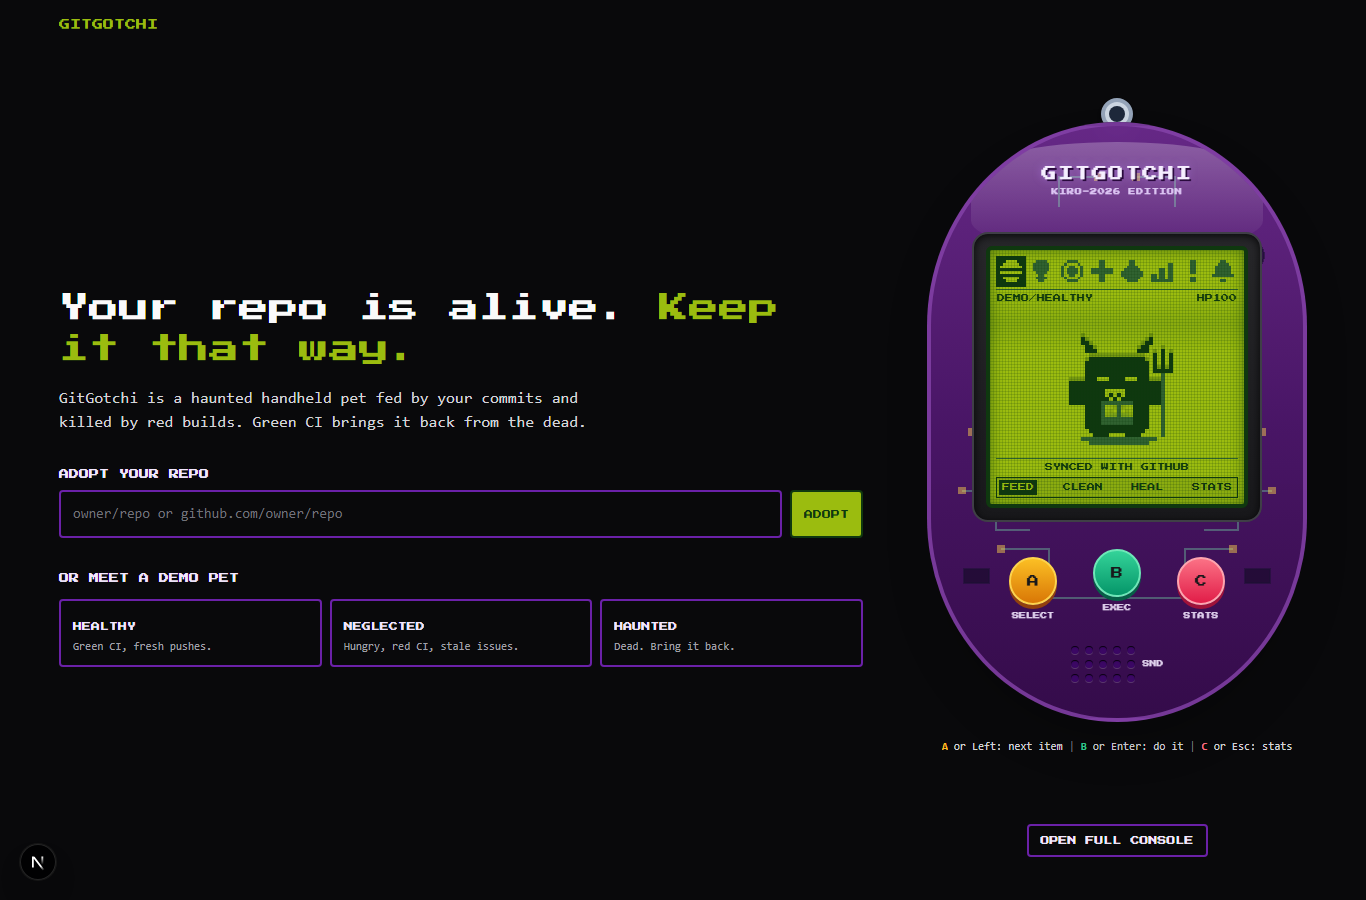
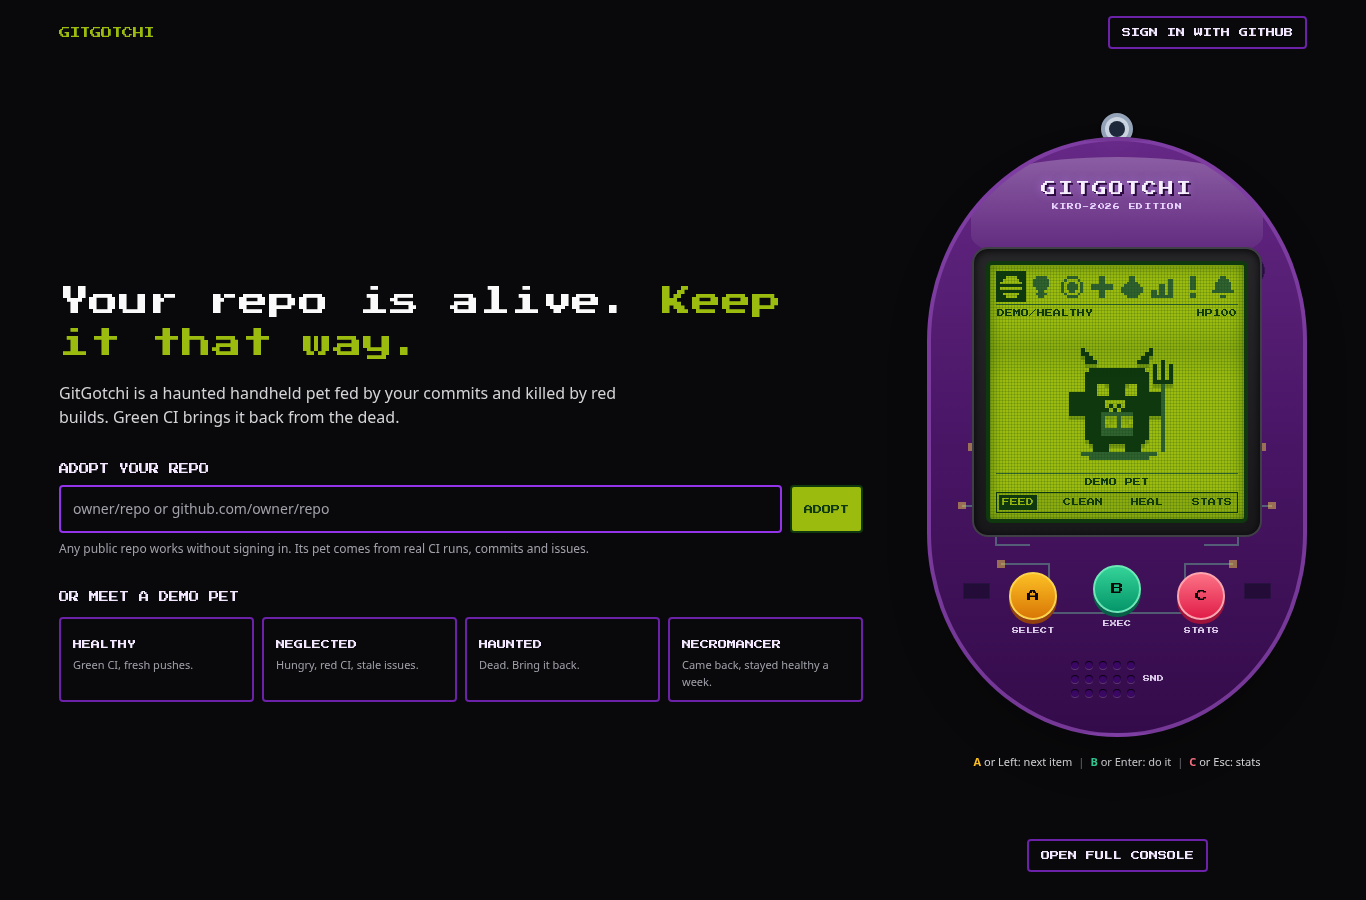
docs: README cross-check, How it differs, Security, current architecture, fresh screenshots from production

diff --git a/README.md b/README.md
@@ -13,7 +13,7 @@ GitGotchi is a 90s-style virtual pet whose health is the health of a GitHub repo
 
 The project was built with Kiro. The `.kiro/` folder at the repository root holds the specs, hooks, steering files and MCP settings. See [How Kiro was used](#how-kiro-was-used) and [docs/KIRO_USAGE.md](docs/KIRO_USAGE.md).
 
-![The GitGotchi handheld on the home page, showing the demo/healthy pet as a Code Demon](docs/media/hero.png)
+![The GitGotchi home page: the handheld shows the demo/healthy pet as a Code Demon, next to the adopt form and the four demo pets](docs/media/hero.png)
 
 ## The problem
 
@@ -22,6 +22,19 @@ Failing CI runs and stale issues usually arrive as notifications, and people lea
 **Who it is for:** maintainers of side projects and small teams who want one glance (or one README badge) to say whether a repo is alive, and open-source visitors who want to know if a project is still cared for before they depend on it.
 
 GitGotchi shows that state as a pet. A sick or dead pet on the project page, or in the README badge, is harder to ignore than another email. The REVIVE button does not help either: the server answers `FIX CI FIRST` until the latest CI run is green.
+
+## How it differs
+
+Pets fed by commits are not new: [cli-pet](https://dev.to/depapp/i-built-a-tamagotchi-that-judges-your-github-activity-and-its-brutally-honest-oh1) lives in the terminal and eats your GitHub activity, [Repogotchi](https://github.com/peclarke/repogotchi) (a 2022 hackathon project) keeps a pet alive with commits, and [code-tamagotchi](https://github.com/davidfrid02/code-tamagotchi) and [terminal-pet](https://github.com/apoorvgarg31/terminal-pet) feed a pet from your editor or shell. GitGotchi differs in four ways:
+
+| | Commit pets above | GitGotchi |
+|---|---|---|
+| Whose pet | One per developer | One per **repository**, shared by everyone with push access; visitors can only look |
+| Who sees it | The developer, in a terminal or editor | **Everyone who opens the repo**, through a live README badge (animated, works through GitHub's image proxy) |
+| Coming back from the dead | A commit revives it | A **ritual tied to a real fix**: REVIVE is refused while CI is red, a revived pet rises as a ghost for a day, each comeback leaves a scar, and a week of health after it earns the rare `NECROMANCER` |
+| What happens when it is sick | Nothing beyond the pet | **Kiro closes the loop**: a Kiro hook reports code smells as poop, Summon Kiro hands Kiro the failing CI log and stale issues, Kiro fixes the code, CI turns green and the pet climbs out of the grave |
+
+It also works for private repos, through a read-only GitHub App with encrypted storage.
 
 ## What it does
 
@@ -34,9 +47,9 @@ GitGotchi shows that state as a pet. A sick or dead pet on the project page, or 
 - **Labelled demo data.** Demo pets carry a `DEMO PET` tag, and every simulated event is tagged `simulated`. Each browser keeps its own demo pets, so nobody sees what others clicked. The app never opens pull requests and never claims a fix it did not make.
 - **Privacy.** Only stats, counts and event labels are stored, never code, commit messages, emails or issue titles. Private pets are encrypted before they reach the store. Details on [`/privacy`](https://gitgochi.lumelo.my.id/privacy).
 
-| Dead pet on `/pet/demo/haunted` | Summon Kiro diagnosis | Badge SVGs from `/api/badge` |
+| Dead pet on `/pet/demo/haunted` | Summon Kiro diagnosis | Live README badges from `/api/badge` |
 |---|---|---|
-| ![The demo/haunted pet as a zombie on its tombstone, with stats, event log and simulator](docs/media/zombie.png) | ![The Summon Kiro modal listing a failing CI finding, a hunger finding and the Kiro prompt](docs/media/summon-kiro.png) | ![Badges for demo/healthy (Code Demon, happy) and demo/haunted (tombstone)](docs/media/badge.png) |
+| ![The demo/haunted pet as a zombie on its tombstone, with stats, event log and simulator](docs/media/zombie.png) | ![The Summon Kiro modal listing a failing CI finding, a hunger finding and the Kiro prompt](docs/media/summon-kiro.png) | ![Badges for demo/healthy (Code Demon), demo/necromancer (the rare stage, with two resurrection scars) and demo/haunted (tombstone)](docs/media/badge.png) |
 
 ## Quick start
 
@@ -127,7 +140,7 @@ Copy [`.env.example`](.env.example) to `.env.local`. All variables are optional 
 
 ## Sign in, keepers and live updates
 
-1. Click **SIGN IN WITH GITHUB**. GitGotchi asks GitHub who you are; it gets no write access to anything.
+1. Click **SIGN IN WITH GITHUB**. GitGotchi asks GitHub who you are; it gets no write access to anything. Sign in passes briefly through `gitgochi.vercel.app`, which receives GitHub's answer and hands you back to `gitgochi.lumelo.my.id` with a one-time ticket.
 2. Open a repo's pet. If you have push, maintain or admin access, you are a **keeper**: FEED, CLEAN, REVIVE, SYNC NOW and KEEPER TOOLS work for you. Everyone else can look.
 3. For live updates, and for any private repo, an admin of the repo clicks **INSTALL GITGOTCHI** (KEEPER TOOLS or **MY PETS**) and picks the repos. The app has read-only access to metadata, contents, actions, checks, issues and pull requests, and receives pushes, CI runs, pull requests and issues for those repos.
 4. **MY PETS** (`/me`) lists every installed repo you can access, labelled KEEPER or READER and PUBLIC or PRIVATE.
@@ -171,7 +184,7 @@ The `.kiro/` folder is at the repository root and is committed. The full write-u
 | Kiro feature | Where | What it does |
 |---|---|---|
 | Specs | `.kiro/specs/{pet-engine,github-sync,kiro-healer,haunted-ui,accounts}/` | One `requirements.md` (EARS), `design.md` and `tasks.md` per feature. Every change after the first build was written into a spec before the code (for example accounts R1 to R9, the rising ghost R6.6 to R6.9, the NECROMANCER R4.4). `.kiro/specs/gitgotchi-prd.md` is the product document, and `.kiro/specs/kiroween-submission/` plans the remaining submission work |
-| Hooks | `.kiro/hooks/poop-detector.json` | On save of a `.ts` or `.tsx` file under `src/`, runs `scripts/poop-detector.mjs`. The script scans for `console.log`, `debugger`, `TODO:` and `FIXME` and reports to `/api/local-poop`. A smell makes the pet poop. Saving the same file clean runs CLEAN on the pet. If the app is down, the script prints one line and exits 0 |
+| Hooks | `.kiro/hooks/poop-detector.json` | On save of a `.ts` or `.tsx` file under `src/`, runs `scripts/poop-detector.mjs`. The script scans for `console.log`, `debugger`, `TODO:` and `FIXME` and reports to `/api/local-poop`. A smell makes the pet poop. Saving the same file clean removes that file's poop only. If the app is down, the script prints one line and exits 0 |
 | | `.kiro/hooks/spec-sync.json` | On save of `src/lib/state-machine.ts`, asks the agent to check the change against `.kiro/specs/pet-engine/` and run `npm test` |
 | Steering | `.kiro/steering/` | `retro-aesthetic.md` (palette, pixel font, shell), `architecture.md` (stack and project layout), `kiro-integration.md` (how the pieces connect, and the rule to report only real results), `summon-healer.md` (manual, run as `/summon-healer`) |
 | MCP server | `mcp-server/index.mjs`, `.kiro/settings/mcp.json` | stdio server `gitgotchi` with `get_pet_status`, `diagnose_pet`, `feed_pet`, `clean_pet`, `simulate_event` (demo repos only), `adopt_pet` and `add_badge` (writes the badge into the workspace README; you commit). The other tools call the running app over HTTP. Only the two read-only tools are auto-approved |
@@ -181,49 +194,56 @@ The `.kiro/` folder is at the repository root and is committed. The full write-u
 
 **Summon Kiro** runs from HEAL on the handheld, from `diagnose_pet` over MCP, or from `/summon-healer` in Kiro chat. It reports the latest completed CI run if that run failed (with its link, the failed jobs and steps, and an excerpt of the failing log), up to 3 stale issues, up to 5 code smells reported by the hook, and the days since the last push when there has been no push for 2 days or more. It returns those findings and a prompt. The prompt marks log lines, issue titles and file names as untrusted repository data, so text planted in a CI log cannot steer Kiro. Kiro then fixes the code in your workspace and runs `npm test`. GitGotchi does not open pull requests and does not edit files.
 
-To use the hook and the MCP server, open this folder in Kiro and run `npm run dev`. Open the app once in the browser before editing. The hook script waits at most 3 seconds for the app, so a call against a cold dev server can time out.
+To use the hook and the MCP server, open this folder in Kiro and run `npm run dev`. Open the app once in the browser before editing. Against the deployed app, both need a per-pet hook token from KEEPER TOOLS in `GITGOTCHI_HOOK_TOKEN`. The hook script waits at most 3 seconds for the app, so a call against a cold dev server can time out.
 
 ## Architecture
 
 ```mermaid
-flowchart LR
-  GH["GitHub"]
-  WH["/api/webhook/github"]
-  SVC["pet-service"]
-  ENG["state-machine: pure engine"]
-  STORE["pet-store: Upstash Redis (private pets sealed)"]
-  APPWH["/api/github-app/webhook"]
-  AUTH["/api/auth: GitHub App sign in"]
-  DEMO["demo pets: browser localStorage"]
-  API["/api/pet/owner/repo"]
-  UI["Next.js pages + handheld UI"]
-  BADGE["/api/badge/owner/repo.svg"]
-  KIRO["Kiro IDE"]
-  LP["/api/local-poop"]
-  MCP["mcp-server"]
-  HEAL["/api/auto-heal diagnosis"]
+flowchart TB
+  subgraph Clients
+    UI["Browser: pages + handheld"]
+    DEMO["Demo pets in localStorage"]
+    KIRO["Kiro: poop hook + MCP server"]
+  end
+  subgraph Vercel["Next.js on Vercel"]
+    AUTH["Sign in: gitgochi.vercel.app/api/auth, then a one-time ticket to /api/auth/handoff"]
+    ROUTES["/api/pet, /api/badge, /api/auto-heal, /api/local-poop"]
+    WH["/api/github-app/webhook (signed)"]
+    ACCESS["access: keeper / reader / visitor"]
+    SVC["pet-service"]
+    ENG["state-machine + pet-logic (pure, also run in the browser)"]
+    STORE["pet-store: 30 s read cache, private pets sealed"]
+  end
+  subgraph GitHub
+    OAUTH["OAuth"]
+    REST["REST API"]
+    HOOKS["App webhooks"]
+  end
+  KV[("Upstash Redis: pets, sessions, tickets")]
 
-  GH -->|REST snapshot| SVC
-  GH -->|signed webhook| WH
-  GH -->|GitGotchi App webhook| APPWH
-  WH --> SVC
-  APPWH --> SVC
-  AUTH -->|keeper / reader / visitor| API
-  DEMO --> UI
-  SVC <--> ENG
-  SVC <--> STORE
-  SVC --> API
-  API --> UI
-  API --> BADGE
-  KIRO -->|PostFileSave hook| LP
-  LP --> SVC
-  KIRO <-->|MCP stdio| MCP
-  MCP -->|HTTP| API
-  MCP -->|HTTP| HEAL
-  UI -->|HEAL button| HEAL
+  UI --> AUTH
+  AUTH <--> OAUTH
+  UI --> ROUTES
+  KIRO -->|hook token| ROUTES
+  DEMO --> ENG
+  ROUTES --> ACCESS --> SVC
+  HOOKS --> WH --> SVC
+  SVC --> ENG
+  SVC -->|snapshots, diagnosis| REST
+  SVC --> STORE --> KV
+  AUTH -->|sessions, tickets| KV
 ```
 
-Stack: Next.js 16 (App Router), React 19, TypeScript, Tailwind CSS, `@modelcontextprotocol/sdk`, Vitest and fast-check. The engine in `src/lib/state-machine.ts` is pure functions. `src/lib/pet-service.ts` handles GitHub snapshots, demo fixtures and user actions. More detail is in `.kiro/steering/architecture.md`.
+Stack: Next.js 16 (App Router), React 19, TypeScript, Tailwind CSS, `@modelcontextprotocol/sdk`, Vitest, fast-check and Playwright. The engine (`src/lib/state-machine.ts`) and the action rules (`src/lib/pet-logic.ts`) are pure functions shared by the server and the browser, so demo pets in `localStorage` follow exactly the same rules. `src/lib/pet-service.ts` reads GitHub snapshots and applies webhooks and actions; `src/lib/access.ts` decides who is a keeper, reader or visitor; `src/lib/pet-store.ts` seals private pets before they reach Upstash. More detail is in `.kiro/steering/architecture.md` and `.kiro/specs/accounts/design.md`.
+
+## Security
+
+- **Least privilege.** The GitGotchi App has read-only permissions and only on the repos it is installed on. It never writes to a repo.
+- **Accounts.** Sessions and GitHub tokens are encrypted (AES-256-GCM) in Upstash; only a hash of the session id is stored; the cookie is `HttpOnly`, `Secure`, `SameSite=Lax`. Sign out revokes the GitHub token at GitHub.
+- **Private repos.** Outsiders get the same answer as for a repo that does not exist, on every route including the badge. Private pets are encrypted before they are stored, and private answers are `no-store` and `noindex`.
+- **Requests.** Writes need our own `Origin`; webhooks need a valid GitHub signature; hook calls need a per-pet token. Per-IP rate limits protect the free quotas.
+- **Browser.** A strict Content Security Policy, no framing (`frame-ancestors 'none'`), `nosniff`, a strict referrer policy and HSTS.
+- **Checked.** No secrets in the git history, `npm audit` reports 0 vulnerabilities, and the tests cover the privacy and access rules (`accounts.test.ts`, `security.test.ts`, `auth-handoff.test.ts`).
 
 ## Testing
 
@@ -242,6 +262,7 @@ GitHub Actions (`.github/workflows/ci.yml`) runs lint, the type check and the un
 ## Known limits
 
 - **Without a KV store, pets live in memory.** When neither the `UPSTASH_REDIS_REST_*` nor the `KV_REST_API_*` pair is set, `src/lib/pet-store.ts` keeps pets in a `Map` in the server process, and a restart, redeploy or serverless cold start loses poop, the resurrection count and webhook effects. Set a KV pair in production (see [docs/DEPLOY.md](docs/DEPLOY.md)).
+- **Rate limits.** One IP can make about 120 pet requests, 10 diagnoses and 20 sign-in starts per minute per server instance; beyond that the API answers 429.
 - **Reads are cached for 30 seconds per server instance.** To stay inside the Upstash free plan, a pet read is reused for 30 seconds. A change made on another instance (for example a webhook) can take up to 30 seconds to show.
 - **Resync replaces webhook effects.** Once the 5-minute cache has expired, the next request re-seeds a real repo's stats from GitHub. Effects the snapshot does not count, such as the bonus from a merged pull request, are replaced at that point. Poop, the resurrection count, the rising state and the NECROMANCER streak are kept. Webhooks that arrive before the first snapshot are replayed once onto it.
 - **Per-file poop has a window.** Cleaning a file removes only that file's poop, but only while its poop event is among the 50 logged events. Poop is capped at 5; the CLEAN button always clears everything.
